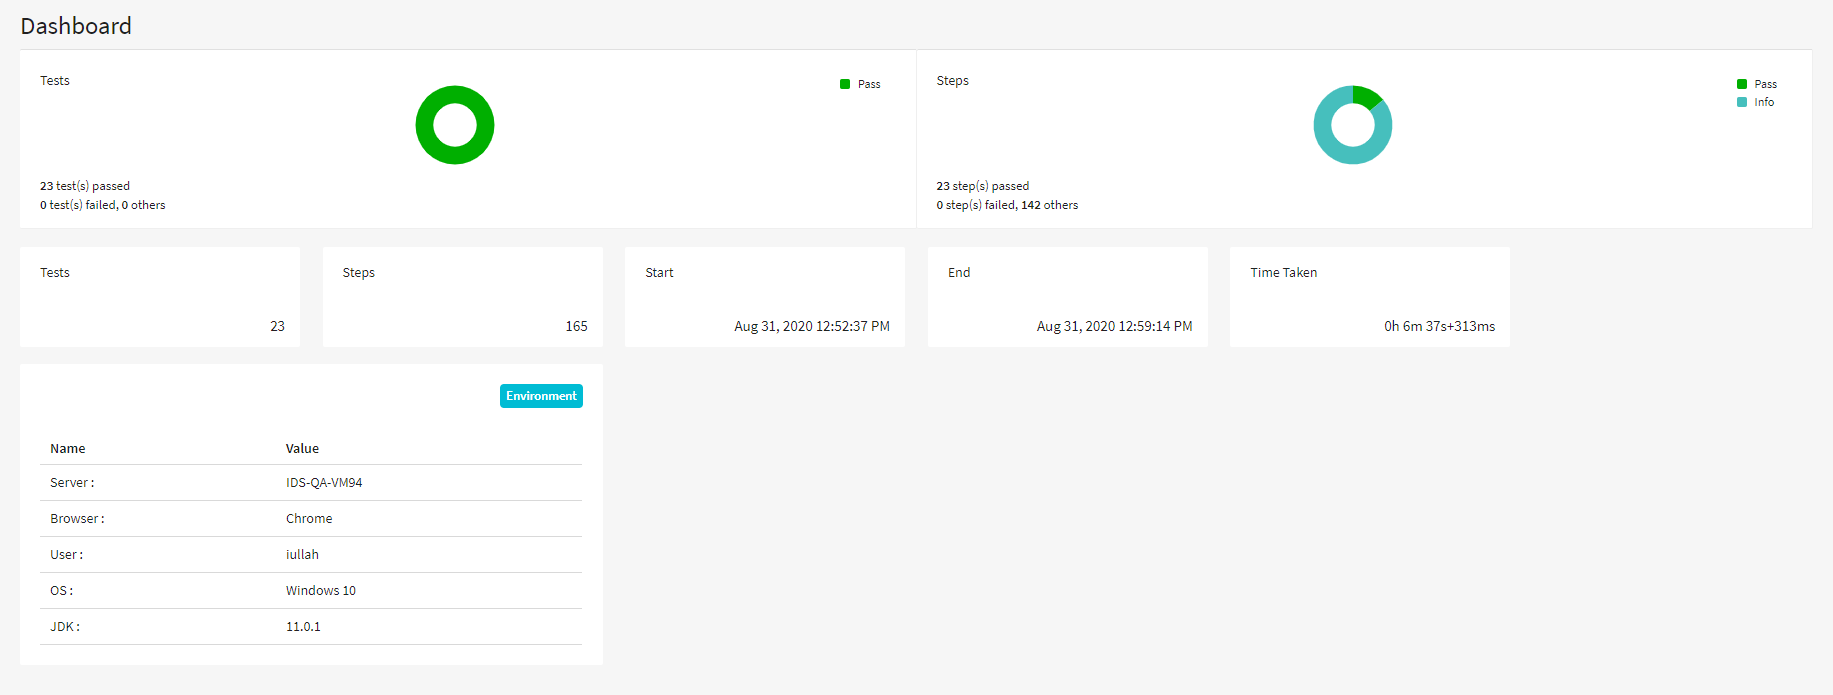
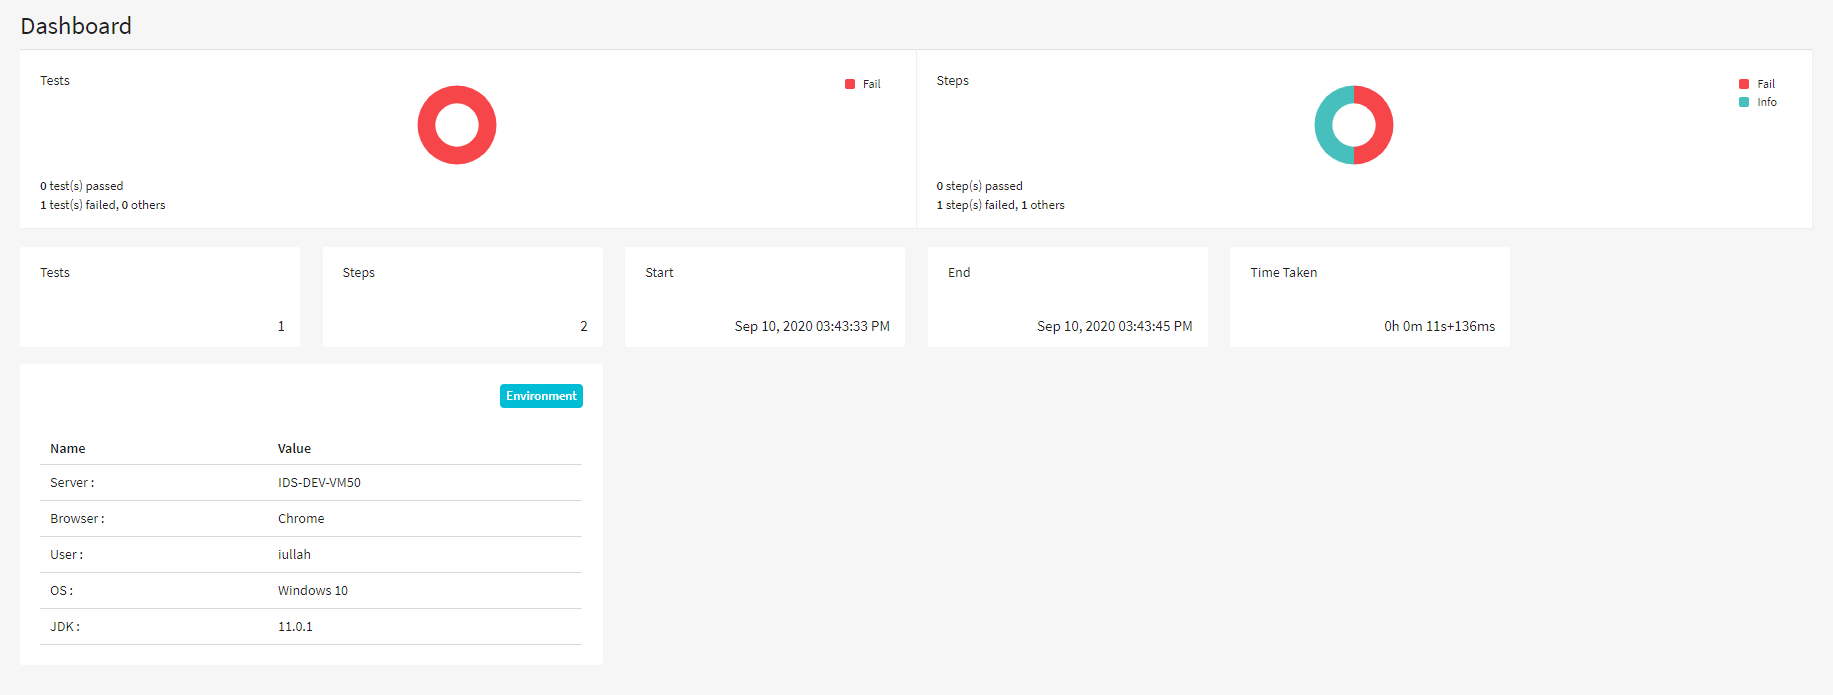
Time and Date API calls updated

diff --git a/ManageWO/src/main/java/Services/RestManager.java b/ManageWO/src/main/java/Services/RestManager.java
@@ -5,6 +5,7 @@ import io.restassured.response.Response;
 import org.joda.time.DateTime;
 import org.joda.time.format.DateTimeFormat;
 import org.joda.time.format.DateTimeFormatter;
+import org.json.JSONArray;
 import org.json.JSONObject;
 
 import static io.restassured.RestAssured.given;
@@ -100,24 +101,63 @@ public class RestManager {
         JSONObject jsonObj = new JSONObject(APIResponse);
         String dateTime = jsonObj.getJSONObject(ParentNode).getString(DateName);
         // Format for input
-        DateTimeFormatter dtf = DateTimeFormat.forPattern("yyyy-MM-dd'T'HH:mm:ss");
+        DateTimeFormatter dtf = DateTimeFormat.forPattern("yyyy-MM-dd");
         // Parsing the date
         DateTime jodatime = dtf.parseDateTime(dateTime);
         // Parsing the date
 
         DateTimeFormatter dtfOutDate = DateTimeFormat.forPattern("dd MMM yy");
-        DateTimeFormatter dtfOutTime = DateTimeFormat.forPattern("HH:mm");
-        String Date = (dtfOutDate.print(jodatime));
-        String Time = (dtfOutTime.print(jodatime));
-        System.out.println("API Time is : " + Time);
-        System.out.println("API Date is : "+ Date);
-        if(Time.equalsIgnoreCase( "00:00"))
+        return (dtfOutDate.print(jodatime));
+
+    }
+
+
+    public String GetDateTimeFromWOAPI(String ParentNode, String Date, String Time){
+        Response response =
+                given()
+                        .relaxedHTTPSValidation()
+                        .header("Authorization", "Bearer "+ appEnv.getToken())
+                        .header("Cache-Control","no-cache")
+                        .header("Content-Type","application/json")
+                        .header("User-Agent","PostmanRuntime/7.26.3")
+                        .header("Accept","*/*" )
+                        .header("Accept-Encoding", "gzip, deflate, br")
+                        .header("Connection","keep-alive")
+                        .log().all()
+                        .get(""+appEnv.getAPIBaseURL()+"/Service/v1/WorkOrder/"+appEnv.getLocation()+"/" +appEnv.getWorkOrderNumber()+ "?invalidateCache=false")
+                        .then()
+                        .assertThat()
+                        .statusCode(200)
+                        .extract()
+                        .response();
+        String APIResponse = response.body().asString();
+        System.out.println(APIResponse);
+        JSONObject jsonObj = new JSONObject(APIResponse);
+        String APIDate = jsonObj.getJSONObject(ParentNode).getString(Date);
+        String APITIme = jsonObj.getJSONObject(ParentNode).getString(Time);
+        // Format for input
+      //  DateTimeFormatter dtf = DateTimeFormat.forPattern("yyyy-MM-dd'T'HH:mm:ss");
+        DateTimeFormatter dateformatter  = DateTimeFormat.forPattern("yyyy-MM-dd");
+        DateTimeFormatter timeFormatter = DateTimeFormat.forPattern("HH:mm:ss");
+        // Parsing the date
+        DateTime jodadate = dateformatter.parseDateTime(APIDate);
+        DateTime jodatime = timeFormatter.parseDateTime(APITIme);
+        // Parsing the date
+
+        DateTimeFormatter dtfOutDate = DateTimeFormat.forPattern("dd MMM yy");
+        DateTimeFormatter dtfOutTime = DateTimeFormat.forPattern("hh:mma");
+        String FormatedDate = (dtfOutDate.print(jodadate));
+        String FormatedTime = (dtfOutTime.print(jodatime));
+        System.out.println("API Time is : " + FormatedTime);
+        System.out.println("API Date is : "+ FormatedDate);
+      /*  if(FormatedTime.equalsIgnoreCase( "00:00") && FormatedDate.equalsIgnoreCase( "00:00" ))
             return Date;
         else {
             DateTimeFormatter dtfOutDateTime = DateTimeFormat.forPattern("dd MMM yy hh:mma");
             System.out.println("API Date Time is : " +  (dtfOutDateTime.print(jodatime)));
             return (dtfOutDateTime.print(jodatime));
-             }
+        }*/
+      return FormatedDate +" "+ FormatedTime;
     }
 
     public String GetAccessToken(){
@@ -160,7 +200,6 @@ public class RestManager {
                         .header("Accept","*/*" )
                         .header("Accept-Encoding", "gzip, deflate, br")
                         .header("Connection","keep-alive")
-
                         .log().all()
                         // .post(""+appEnv.getAPIAddress()+"")
                         .get(""+appEnv.getAPIBaseURL()+"/Service/v1/WorkOrder/"+appEnv.getLocation()+"/" +appEnv.getWorkOrderNumber()+ "?invalidateCache=false")
@@ -206,7 +245,7 @@ public class RestManager {
 
 
 
-   public JSONObject GetWOCustomerInfoFromAPI(String Title){
+   public JSONArray GetInfoFromAPI(String Title){
         Response response =
                 given()
                         .relaxedHTTPSValidation()
@@ -217,17 +256,18 @@ public class RestManager {
                         .header("Accept","*/*" )
                         .header("Accept-Encoding", "gzip, deflate, br")
                         .header("Connection","keep-alive")
-                       .log().all()
+                    //   .log().all()
                        .get(""+appEnv.getAPIBaseURL()+"/Service/v1/WorkOrder/"+appEnv.getLocation()+"/" +appEnv.getWorkOrderNumber()+ "?invalidateCache=false")
                         .then()
-                       .assertThat()
-                     .statusCode(200)
-                      .extract()
-                     .response();
-                     String APIResponse = response.body().asString();
-                     System.out.println(APIResponse);
-                     JSONObject jsonObj = new JSONObject(APIResponse);
-                     return jsonObj.getJSONObject(Title);
+                        .assertThat()
+                        .statusCode(200)
+                        .extract()
+                        .response();
+                        String APIResponse = response.body().asString();
+                        System.out.println(APIResponse);
+                        JSONObject jsonObj = new JSONObject(APIResponse);
+                        JSONArray jsonArray = jsonObj.getJSONArray(Title);
+                        return jsonArray;
 
 
 /*

diff --git a/ManageWO/src/test/java/TestSpecs/DetailedWO.java b/ManageWO/src/test/java/TestSpecs/DetailedWO.java
@@ -24,6 +24,7 @@ public class DetailedWO {
     private InputDataStream inputDataStream;
     private Fetch_Elements fetch_elements;
     private RecentWO pgRecentWO;
+  //  private JSONArray JobsInfo;
 
 
     public DetailedWO() {
@@ -34,6 +35,9 @@ public class DetailedWO {
         loginPage = new LoginPage(appEnv);
         inputDataStream = InputDataStream.getInstance(appEnv);
         fetch_elements = Fetch_Elements.getInstance(appEnv);
+        restManager = RestManager.getInstance(appEnv);
+     //  JobsInfo = new JSONArray();
+      //  JobsInfo.put(appEnv.getRestManager().GetInfoFromAPI("Jobs"));
 
     }
 
@@ -44,6 +48,15 @@ public class DetailedWO {
         woDetails.Search_And_Click_WONumber(appEnv.getWorkOrderNumber());
         String GUIValue = woDetails.GetWODate();
         String APIValue = appEnv.getRestManager().GetDateFromWOAPI("WorkOrder","WorkOrderDate");
+        System.out.println("Data Received from JSON ARRAY is : " + woDetails.GetStringFromJobs(appEnv.getRestManager().GetInfoFromAPI("Jobs"), "JobNo"));
+/*        System.out.println(woDetails.GetStringFromJobs(JobsInfo, "Complaint"));
+        System.out.println(woDetails.GetStringFromJobs(JobsInfo, "BillTypeCode"));
+        System.out.println(woDetails.GetStringFromJobs(JobsInfo, "BillTypeDesc"));
+        System.out.println(woDetails.GetStringFromJobs(JobsInfo, "BillTo"));
+        System.out.println(woDetails.GetStringFromJobs(JobsInfo, "BillToDesc"));*/
+
+
+
         System.out.println("Work Order Date is : " + GUIValue);
         appEnv.setTestPass(APIValue.equalsIgnoreCase(GUIValue));
         appEnv.getReportManager().LogStepInfo("WO Date is : " + GUIValue);
@@ -149,7 +162,7 @@ public class DetailedWO {
 
         woDetails.Search_And_Click_WONumber(appEnv.getWorkOrderNumber());
         System.out.println("Work Order Appointment Date is : " + woDetails.GetWOAppointmentDate());
-        appEnv.setTestPass(appEnv.getRestManager().GetDateFromWOAPI("WorkOrder","AppointmentDateTime").equalsIgnoreCase(woDetails.GetWOAppointmentDate()));
+        appEnv.setTestPass(appEnv.getRestManager().GetDateTimeFromWOAPI("WorkOrder","AppointmentDate", "AppointmentTime").equalsIgnoreCase(woDetails.GetWOAppointmentDate()));
         appEnv.getReportManager().LogStepInfo("WO Appointment Date is : " + woDetails.GetWOAppointmentDate());
         Utils.VerifyResult("Can not Load Work Order Appointment Date ", appEnv.isTestPass());
     }
@@ -157,8 +170,11 @@ public class DetailedWO {
     @Test(priority = 511, retryAnalyzer = ReTry.class)
     public void Load_Work_Order_Expected_Promised_Date(){
         woDetails.Search_And_Click_WONumber(appEnv.getWorkOrderNumber());
-        System.out.println("Work Order Expected/Promised Date is : " + woDetails.GetWOExpectedDate());
-        appEnv.setTestPass(appEnv.getRestManager().GetDateFromWOAPI("WorkOrder","PromiseDateTime").equalsIgnoreCase(woDetails.GetWOExpectedDate()));
+        String GUIExpectedDate = woDetails.GetWOExpectedDate();
+        String APIExpectedDate = appEnv.getRestManager().GetDateTimeFromWOAPI("WorkOrder","PromiseDate", "PromiseTime");
+        System.out.println("Work Order GUI Expected/Promised Date is : " + GUIExpectedDate);
+        System.out.println("Work Order API Expected/Promised Date is : " + APIExpectedDate);
+        appEnv.setTestPass(APIExpectedDate.equalsIgnoreCase(GUIExpectedDate));
         appEnv.getReportManager().LogStepInfo("WO Expected/Promised Date is : " + woDetails.GetWOExpectedDate());
         Utils.VerifyResult("Can not Load Work Order Expected/Promised Date ", appEnv.isTestPass());
     }
@@ -200,8 +216,8 @@ public class DetailedWO {
         if(GUIValue.isEmpty())
             appEnv.setTestPass(true);
         else {
-            String APIValue = appEnv.getRestManager().GetStringInfoFromWOAPI("Inventory", "ChasisNo");
-            System.out.println("WO Stock Chasis Number is   : " + GUIValue);
+            String APIValue = appEnv.getRestManager().GetStringInfoFromWOAPI("Inventory", "ChassisNo");
+            System.out.println("WO Stock GUI Chasis Number is   : " + GUIValue);
             appEnv.setTestPass(APIValue.equalsIgnoreCase(GUIValue));
         }
         appEnv.getReportManager().LogStepInfo("WO Stock Chasis Number is : " + GUIValue);
@@ -328,7 +344,7 @@ public class DetailedWO {
     @Test(priority = 521, retryAnalyzer = ReTry.class)
     public void Load_Parts_Discount_Percentage(){
 
-        System.out.println(appEnv.getRestManager().GetWOCustomerInfoFromAPI("Customer"));
+       // System.out.println(appEnv.getRestManager().GetWOCustomerInfoFromAPI("Customer"));
         woDetails.Search_And_Click_WONumber(appEnv.getWorkOrderNumber());
         String GUIValue = woDetails.GetWOPartsDiscountPercentage();
         if(GUIValue.isEmpty())

diff --git a/ManageWO/src/main/java/PageObj/WODetails.java b/ManageWO/src/main/java/PageObj/WODetails.java
@@ -3,6 +3,7 @@ package PageObj;
 import Drivers.Fetch_Elements;
 import Services.AppEnv;
 import Services.General;
+import org.json.JSONArray;
 
 public class WODetails {
 
@@ -155,6 +156,15 @@ public class WODetails {
     public String GetWOPartsDiscountPercentage(){
         Utils.waitTillXpathPresent("//div[@data-test-id='woHeaderMisc']/div[2]/div[5]/div[1]/div[2]", 30);
         return  Utils.GetText(fetch_elements.GetObj("xpath","//div[@data-test-id='woHeaderMisc']/div[2]/div[5]/div[1]/div[2]"));
+    }
+    public String GetStringFromJobs(JSONArray jsonArray, String Title)
+    {
+        String Expected_Result =null;
+        for(int i =0; i<jsonArray.length(); i++)
+            Expected_Result= jsonArray.getJSONObject(i).getString(Title);
+        return Expected_Result;
+
+
     }
 
 }

diff --git a/ManageWO/src/test/java/TestSpecs/SearchWO.java b/ManageWO/src/test/java/TestSpecs/SearchWO.java
@@ -99,6 +99,7 @@ public class SearchWO {
     }
     @Test(priority = 11, retryAnalyzer = ReTry.class)
         public void Search_Open_WO_Against_First_Name(){
+        System.out.println(appEnv.getRestManager().GetInfoFromAPI("Jobs"));
         appEnv.setTotalWOAgainstFirstName(appEnv.getRestManager().SetDataFromAPI(inputDataStream.SetOpenWOAgainstFirstName()));
         Utils.StaticWait(1000);
         loginPage.Click_Work_Order_Button();
